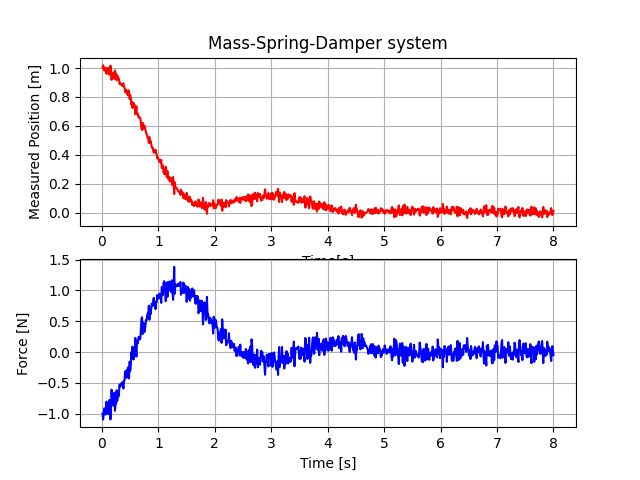
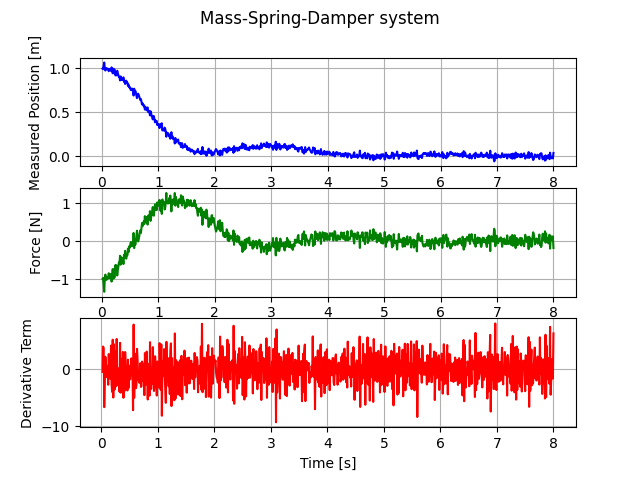
documentation is ready

Changed region(s): [[0.0312, 0.0625, 0.9062, 0.9062], [0.3125, 0.0, 0.6875, 0.125]]

diff --git a/README.md b/README.md
@@ -36,6 +36,8 @@ advanced-pid package includes a toy mass-spring-damper system model for testing:
 ```python
 from advanced_pid import PID
 from advanced_pid.models import MassSpringDamper
+from matplotlib import pyplot as plt
+from numpy import diff
 
 # Create a mass-spring-damper system model
 system = MassSpringDamper(mass=1.0, spring_const=1.0, damping_const=0.2)
@@ -62,22 +64,22 @@ for i in range(800):
     cont.append(control)
 
 # Plot result
-import matplotlib.pyplot as plt
-plt.subplot(2,1,1)
-plt.title('Mass-Spring-Damper system')
-plt.xlabel('Time[s]')
-plt.ylabel('Measured Position [m]')
-plt.plot(time, meas, 'r')
-plt.grid()
-plt.subplot(2,1,2)
-plt.xlabel('Time [s]')
-plt.ylabel('Force [N]')
-plt.plot(time, cont, 'b')
-plt.grid()
+fig, (ax1, ax2, ax3) = plt.subplots(3, 1)
+fig.suptitle('Mass-Spring-Damper system')
+ax1.set_ylabel('Measured Position [m]')
+ax1.plot(time, meas, 'b')
+ax1.grid()
+ax2.set_ylabel('Force [N]')
+ax2.plot(time, cont, 'g')
+ax2.grid()
+ax3.set_xlabel('Time [s]')
+ax3.set_ylabel('Derivative Term')
+ax3.plot(time[1:], diff(meas)/diff(time), 'r')
+ax3.grid()
 plt.show()
 ```
     
-Output:  
+As It can be seen in the figure, derivative term cannot be use without a filter:  
 ![alt text](https://raw.githubusercontent.com/eadali/advanced-pid/main/docs/imgs/figure.png)
 
 ## Installation
